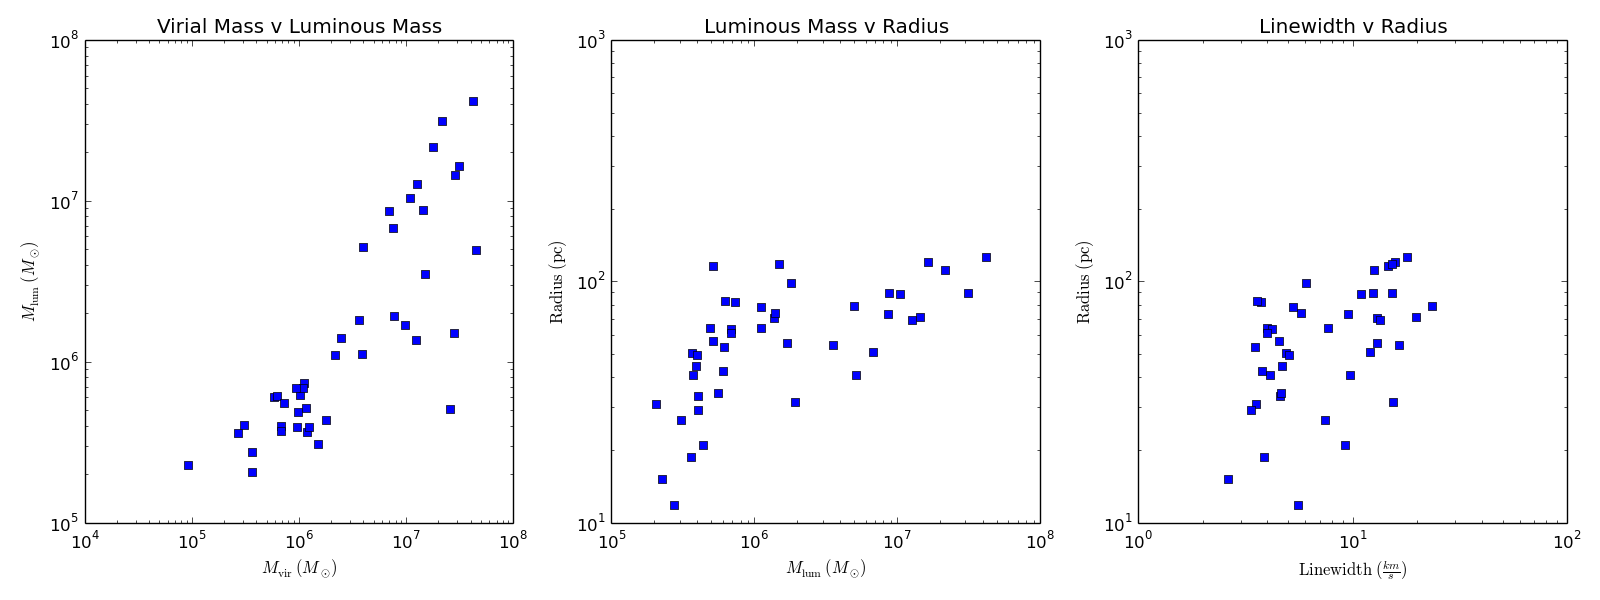
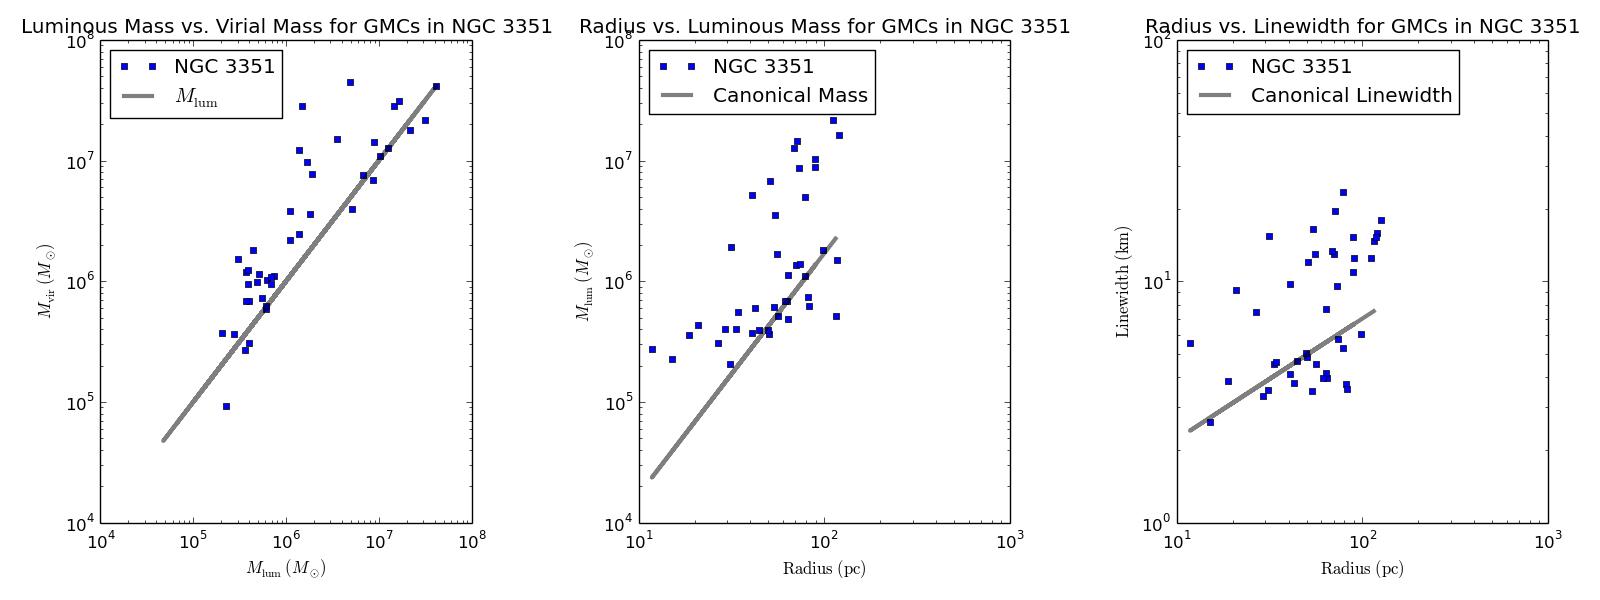
I have rearranged the axes, added canonical trends according to the Milky Way, and fixed a slight issue of the size of the data points

diff --git a/mkgraph.py b/mkgraph.py
@@ -1,26 +1,61 @@
-# This is a module to display data in a series of graphs
-def graphs(data,ofile):
+# This is a module to save data in a series of graphs.
+def graphs (galaxy,data,ofile):
+
+        # import the libraries that are needed.
 	from astropy.table import Table
 	import matplotlib.pyplot as plt
+
+	# Load all of the data.
 	mytable = Table.read(data)
+
+	# Extract different data sets.
+	vmass = mytable['VIRMASS_EXTRAP_DECONV']
+	lmass = mytable['MASS_EXTRAP']
+	radius = mytable['RADRMS_EXTRAP_DECONV']
+	lw = mytable['VRMS_EXTRAP']
+
+	# Calculate the canonical values according to the Milky Way.
+	mcan = 170*radius**2
+	lwcan = 0.7*radius**0.5
+
+	# Initialize a figure that can easily show three plots
+        #arranged horizontally.
 	figure = plt.figure(figsize=(16,6))
-	# Create a subplot for the GMC virial and luminous masses
+
+	# Create a subplot for the GMC luminous and virial masses.
 	plt.subplot(1,3,1)
-	plt.loglog(mytable['VIRMASS_EXTRAP_DECONV'],mytable['MASS_EXTRAP'],marker='s',linestyle='None')
-	plt.xlabel(r'$M_{\mathrm{vir}}\ (M_{\odot})$')
-	plt.ylabel(r'$M_{\mathrm{lum}}\ (M_{\odot})$') 
-	plt.title('Virial Mass v Luminous Mass')
-	# Create a subplot for the GMC luminous mass and radius
+	lines = plt.loglog (lmass,vmass,lmass,lmass)
+	l1,l2 = lines
+	plt.setp (l1,marker='s',markersize=5,linestyle='None')
+	plt.setp (l2,color='k',linestyle='solid',linewidth=3,alpha=0.5)
+	plt.legend ([l1,l2],[galaxy,r'$M_{\mathrm{lum}}$'],loc=2)
+	plt.xlabel(r'$M_{\mathrm{lum}}\ (M_{\odot})$')
+	plt.ylabel(r'$M_{\mathrm{vir}}\ (M_{\odot})$')
+	plt.title('Luminous Mass vs. Virial Mass for GMCs in '+galaxy)
+
+	# Create a subplot for the GMC luminous radius and mass.
 	plt.subplot(1,3,2)
-	plt.loglog(mytable['MASS_EXTRAP'],mytable['RADRMS_EXTRAP_DECONV'],marker='s',linestyle='None')
-	plt.xlabel(r'$M_{\mathrm{lum}}\ (M_{\odot})$') 
-	plt.ylabel(r'$\mathrm{Radius}\ (\mathrm{pc})$')
-	plt.title('Luminous Mass v Radius')
-	# Create a subplot for the GMC linewidth and radius
+	lines = plt.loglog(radius,lmass,radius,mcan)
+	l1,l2 = lines
+	plt.setp(l1,marker='s',markersize=5,linestyle='None')
+	plt.setp(l2,color='k',linestyle='solid',linewidth=3,alpha=0.5)
+	plt.legend ([l1,l2],[galaxy,'Canonical Mass'],loc=2)
+	plt.xlabel(r'$\mathrm{Radius}\ (\mathrm{pc})$')
+	plt.ylabel(r'$M_{\mathrm{lum}}\ (M_{\odot})$')
+	plt.title('Radius vs. Luminous Mass for GMCs in '+galaxy)
+
+	# Create a subplot for the GMC radius and linewidth.
 	plt.subplot(1,3,3)
-	plt.loglog(mytable['VRMS_EXTRAP'],mytable['RADRMS_EXTRAP_DECONV'],marker='s',linestyle='None')
-	plt.xlabel(r'$\mathrm{Linewidth}\ (\frac{km}{s})$') 
-	plt.ylabel(r'$\mathrm{Radius}\ (\mathrm{pc})$')
-	plt.title('Linewidth v Radius')
-	plt.tight_layout() 	
+	lines = plt.loglog(radius,lw,radius,lwcan)
+        l1,l2 = lines
+	plt.setp(l1,marker='s',markersize=5,linestyle='None')
+	plt.setp(l2,color='k',linestyle='solid',linewidth=3,alpha=0.5)
+	plt.legend ([l1,l2],[galaxy,'Canonical Linewidth'],loc=2)
+	plt.xlabel(r'$\mathrm{Radius}\ (\mathrm{pc})$')
+	plt.ylabel(r'$\mathrm{Linewidth}\ (\mathrm{km})$')
+	plt.title('Radius vs. Linewidth for GMCs in '+galaxy)
+
+
+	plt.tight_layout()
 	plt.savefig(ofile)
+

diff --git a/co21_data.py b/co21_data.py
@@ -2,28 +2,28 @@ import mkgraph
 
 #NGC1672
 # Load the data file and display it in a few graphs.
-mkgraph.graphs ('NGC1672_co21_cube_props_clfind.fits','NGC1672.png')
+mkgraph.graphs ('NGC 1672','NGC1672_co21_cube_props_clfind.fits','NGC1672.png')
 
 #NGC3351
-mkgraph.graphs ('NGC3351_co21_cube_props_clfind.fits','NGC3351.png')
+mkgraph.graphs ('NGC 3351','NGC3351_co21_cube_props_clfind.fits','NGC3351.png')
 
 #NGC3627
-mkgraph.graphs ('NGC3627_co21_cube_props_clfind.fits','NGC3627.png')
+mkgraph.graphs ('NGC 3627','NGC3627_co21_cube_props_clfind.fits','NGC3627.png')
 
 #NGC4254
-mkgraph.graphs ('NGC4254_co21_cube_props_clfind.fits','NGC4254.png')
+mkgraph.graphs ('NGC 4254','NGC4254_co21_cube_props_clfind.fits','NGC4254.png')
 
 #NGC4303
-mkgraph.graphs ('NGC4303_co21_cube_props_clfind.fits','NGC4303.png')
+mkgraph.graphs ('NGC 4303','NGC4303_co21_cube_props_clfind.fits','NGC4303.png')
 
 #NGC4321
-mkgraph.graphs ('NGC4321_co21_cube_props_clfind.fits','NGC4321.png')
+mkgraph.graphs ('NGC 4321','NGC4321_co21_cube_props_clfind.fits','NGC4321.png')
 
 #NGC4535
-mkgraph.graphs ('NGC4535_co21_cube_props_clfind.fits','NGC4535.png')
+mkgraph.graphs ('NGC 4535','NGC4535_co21_cube_props_clfind.fits','NGC4535.png')
 
 #NGC5068
-mkgraph.graphs ('NGC5068_co21_cube_props_clfind.fits','NGC5068.png')
+mkgraph.graphs ('NGC 5068','NGC5068_co21_cube_props_clfind.fits','NGC5068.png')
 
 #NGC6744
-mkgraph.graphs ('NGC6744_co21_cube_props_clfind.fits','NGC6744.png')
+mkgraph.graphs ('NGC 6744','NGC6744_co21_cube_props_clfind.fits','NGC6744.png')
